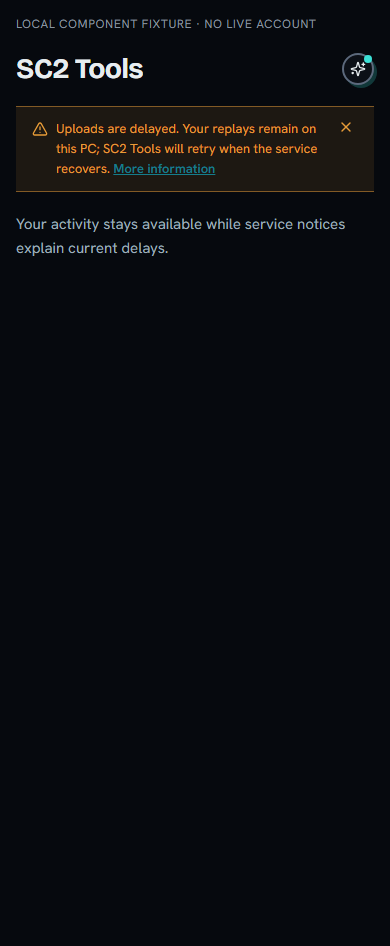
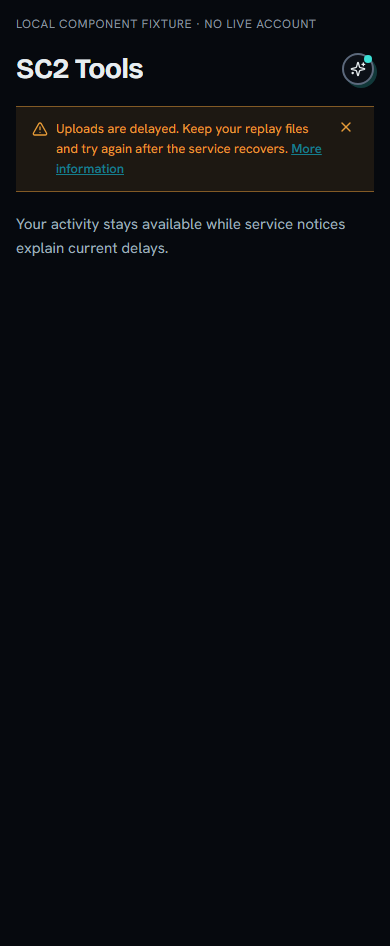
test(announcements): cover public changelog at responsive sizes

Changed region(s): [[0.1231, 0.1226, 0.8308, 0.1839]]

diff --git a/apps/web/tests/e2e/public-pages.spec.ts b/apps/web/tests/e2e/public-pages.spec.ts
@@ -22,6 +22,7 @@ const PAGES: Array<{ path: string; expectText: RegExp }> = [
   { path: "/guides/pvz", expectText: /PvZ build orders/i },
   { path: "/guides/pvz/stargate-into-glaives", expectText: /Stargate into Glaives/ },
   { path: "/download", expectText: /download|agent/i },
+  { path: "/changelog", expectText: /what's new/i },
   { path: "/stream-studio", expectText: /StarCraft II overlays for OBS/i },
   { path: "/stream-studio/learn", expectText: /Your first overlay/i },
   { path: "/community", expectText: /community|build/i },
@@ -36,6 +37,20 @@ const PAGES: Array<{ path: string; expectText: RegExp }> = [
     ? [{ path: "/try", expectText: /analyze/i }]
     : []),
 ];
+
+test("changelog filters updates and exposes its public RSS feed", async ({ page, request }) => {
+  const response = await page.goto("/changelog");
+  expect(response?.status()).toBe(200);
+  await expect(page.getByRole("heading", { name: "What's new", exact: true })).toBeVisible();
+  await page.getByRole("button", { name: "Guides", exact: true }).click();
+  await expect(page.getByText("No Guides updates yet.")).toBeVisible();
+  await page.getByRole("button", { name: "Website", exact: true }).click();
+  await expect(page.getByRole("heading", { name: "Your activity and report replies in one inbox" })).toBeVisible();
+  await expect(page.getByRole("button", { name: "Website", exact: true })).toHaveAttribute("aria-pressed", "true");
+  const rss = await request.get("/changelog/rss.xml");
+  expect(rss.status()).toBe(200); expect(rss.headers()["content-type"]).toContain("application/rss+xml");
+  expect(await rss.text()).toContain("/changelog#personal-notifications-and-replies");
+});
 
 test("missing shared replay archives return a real public-friendly 404", async ({ page }) => {
   const response = await page.goto("/players/missing-shared-player/replays");

diff --git a/apps/web/app/admin/announcements/page.tsx b/apps/web/app/admin/announcements/page.tsx
@@ -13,7 +13,7 @@ type Draft = { severity: SiteNotice["severity"]; audience: SiteNotice["audience"
 const localTime = (value: string) => { const date = new Date(value); return new Date(date.getTime() - date.getTimezoneOffset() * 60000).toISOString().slice(0, 16); };
 const fresh = (): Draft => ({ severity: "info", audience: "all", message: "", href: "", startsAt: localTime(new Date().toISOString()), endsAt: localTime(new Date(Date.now() + 2 * 3600000).toISOString()) });
 const TEMPLATES = [
-  { title: "Upload outage", message: "Uploads are delayed. Your replays remain on this PC; SC2 Tools will retry when the service recovers.", severity: "warning", audience: "all", href: "/help/desktop-app-overview" },
+  { title: "Upload outage", message: "Uploads are delayed. Keep your replay files and try again after the service recovers.", severity: "warning", audience: "all", href: "/help/desktop-app-overview" },
   { title: "Maintenance", message: "SC2 Tools is undergoing maintenance. Some pages may be temporarily unavailable. Your saved data is safe.", severity: "info", audience: "all", href: "/changelog" },
   { title: "Required agent update", message: "A desktop app update is required to keep syncing. Open the desktop app or download the latest version.", severity: "warning", audience: "agent", href: "/download" },
 ] as const;
